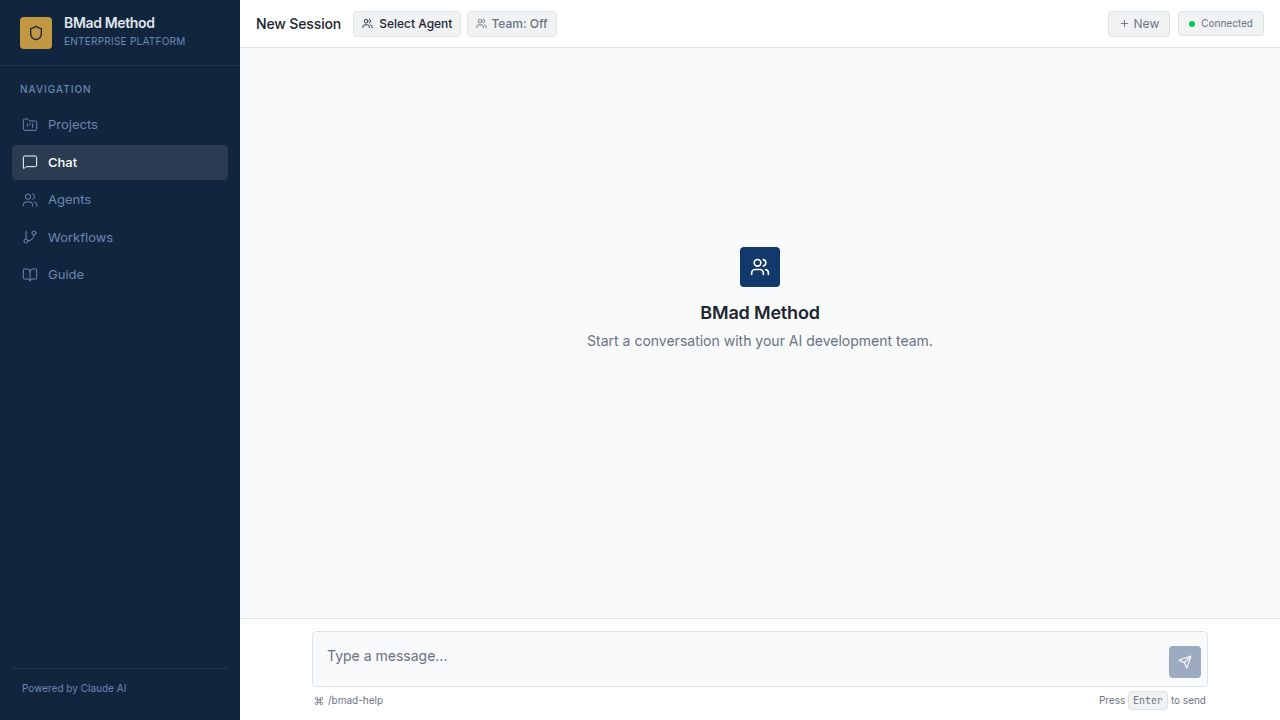
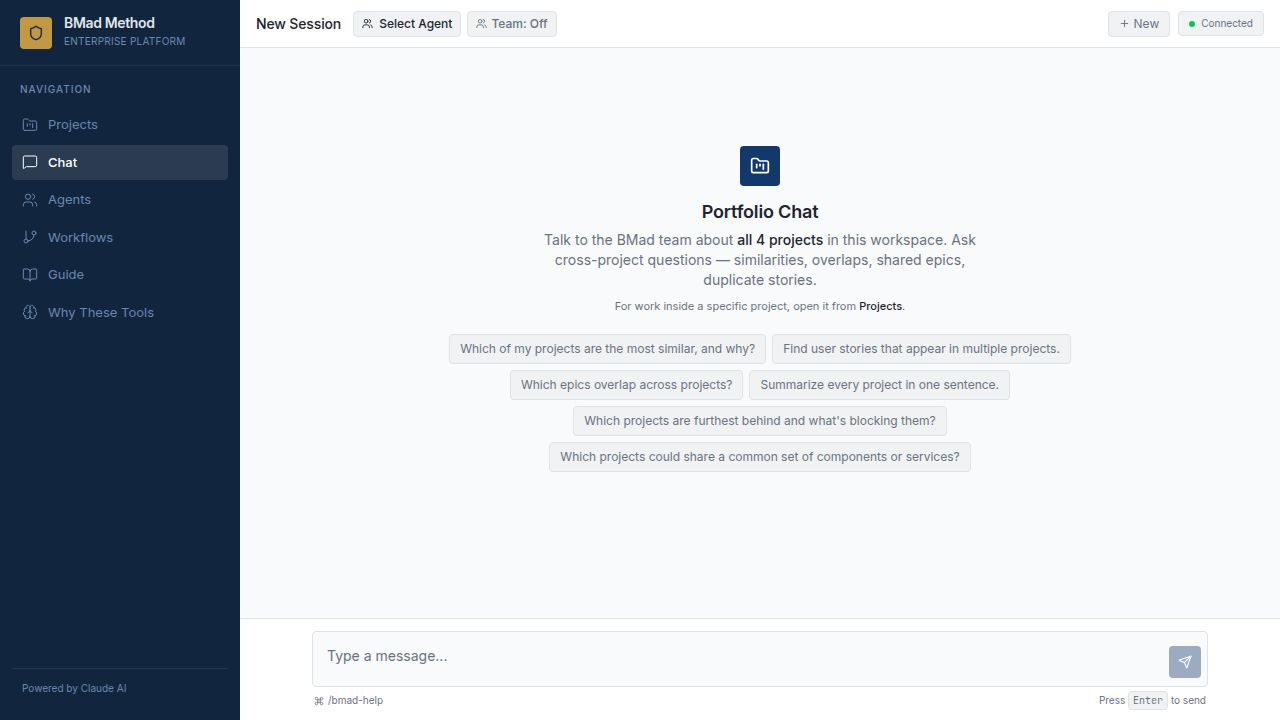
Add a page explaining AI development tools and their importance
Introduce a new page detailing AI development tools like BMAD, OpenSpec, and Task Master, along with their benefits in overcoming context rot.

Replit-Commit-Author: Agent
Replit-Commit-Session-Id: aa47a9ff-fc4f-4b63-81e4-2110f7934c49
Replit-Commit-Checkpoint-Type: full_checkpoint
Replit-Commit-Event-Id: 6519afbe-ac35-4e69-aeb8-97c24171ea48
Replit-Commit-Screenshot-Url: https://storage.googleapis.com/screenshot-production-us-central1/96b46cc5-f6db-49d0-b25d-7af8d2ef0f63/aa47a9ff-fc4f-4b63-81e4-2110f7934c49/jTIKhtq
Replit-Helium-Checkpoint-Created: true

diff --git a/client/src/pages/WhyTools.tsx b/client/src/pages/WhyTools.tsx
@@ -1,0 +1,293 @@
+import { Layout } from "@/components/layout/Layout";
+import {
+  AlertTriangle,
+  Brain,
+  GitBranch,
+  FileText,
+  ListChecks,
+  TrendingDown,
+  CheckCircle2,
+  XCircle,
+  ArrowRight,
+  Target,
+  Layers,
+  Zap,
+} from "lucide-react";
+
+const TOOLS = [
+  {
+    id: "bmad",
+    name: "BMad Method",
+    tagline: "Structured agile workflow with specialist AI agents",
+    icon: GitBranch,
+    accent: "bg-primary text-primary-foreground",
+    accentSoft: "bg-primary/10 text-primary border-primary/20",
+    description:
+      "BMad breaks software delivery into five disciplined phases — Analysis, Planning, Solutioning, Refinement, and Implementation — each driven by a specialist agent (Mary, John, Winston, Sally, Fred, Allie, Bob, DevAI, Quinn). Instead of one generalist AI guessing across all roles, BMad routes each decision to the right expert with the right system prompt and the right artifacts in context.",
+    solves: [
+      "Single-agent confusion when one AI tries to be PM, architect, and developer at once.",
+      "Lost institutional knowledge between sessions — agents work from durable documents, not stale chat history.",
+      "Skipped discovery — the workflow forces a Brief and PRD before any architecture or code is written.",
+      "Story-level chaos — the CE command produces parseable epics and INVEST-graded stories that flow straight into the board.",
+    ],
+    when: "When you want a senior team's process — discovery, planning, design, refinement, build — without hiring six people.",
+  },
+  {
+    id: "openspec",
+    name: "OpenSpec",
+    tagline: "Specifications as the source of truth, not chat",
+    icon: FileText,
+    accent: "bg-violet-700 text-white",
+    accentSoft: "bg-violet-500/10 text-violet-700 border-violet-500/20",
+    description:
+      "OpenSpec is a spec-driven development pattern where every change starts as a written specification — proposal, capability deltas, tasks, and design — that humans review before any code is generated. The spec is the contract; the AI implements against it. Specs are versioned, diff-able, and live next to the code they describe.",
+    solves: [
+      "Underspecified prompts that produce code the team didn't actually agree to.",
+      "Drift between intent and implementation — the spec stays in the repo as the durable source of truth.",
+      "Reviewer overload — humans review a tight spec, not 2,000 lines of generated code.",
+      "Knowledge transfer — new contributors (human or AI) onboard from specs, not from reading every commit.",
+    ],
+    when: "When changes are non-trivial, cross multiple files, or need architectural buy-in before code is written.",
+  },
+  {
+    id: "task-master",
+    name: "Task Master",
+    tagline: "Decompose work into ordered, dependency-aware tasks",
+    icon: ListChecks,
+    accent: "bg-emerald-700 text-white",
+    accentSoft: "bg-emerald-500/10 text-emerald-700 border-emerald-500/20",
+    description:
+      "Task Master takes a PRD or epic and produces a numbered task list with explicit dependencies, complexity scores, and acceptance criteria. Each task is small enough to fit a single AI session without overflowing the context window. An orchestrator picks the next unblocked task, hands the AI exactly what it needs, and marks it done when verified.",
+    solves: [
+      "Unbounded scope — the AI knows exactly which task it's on and what done looks like.",
+      "Hidden dependencies — work is sequenced so prerequisites land first.",
+      "Context exhaustion — each task is self-contained with only the files and notes it needs.",
+      "Stalled progress — completed tasks are tracked, blockers are surfaced, and the team always knows the next move.",
+    ],
+    when: "When a project has more than ~10 stories or any non-linear dependency graph.",
+  },
+];
+
+const ROT_SYMPTOMS = [
+  "Repeats decisions you made 20 messages ago",
+  "Reintroduces bugs you already fixed",
+  "Forgets file paths, table names, or constraints",
+  "Generates code that doesn't match the architecture",
+  "Asks for context it was already given",
+  "Produces shorter, vaguer answers as the session grows",
+];
+
+const ROT_MITIGATIONS = [
+  { tool: "BMad", how: "Specialist agents with focused system prompts; durable documents replace ephemeral chat." },
+  { tool: "OpenSpec", how: "The spec lives in the repo. Every new session starts fresh from the spec, not from chat scrollback." },
+  { tool: "Task Master", how: "Each task is its own scoped session with only the files and acceptance criteria it needs." },
+  { tool: "Portfolio Chat", how: "Cross-project state is injected as structured context, not recovered from chat memory." },
+];
+
+export default function WhyTools() {
+  return (
+    <Layout>
+      <div className="flex-1 overflow-y-auto bg-background">
+        <div className="max-w-4xl mx-auto px-6 py-8 space-y-10">
+          {/* Header */}
+          <div>
+            <div className="inline-flex items-center gap-2 px-2.5 py-1 rounded-full bg-primary/10 text-primary text-[10px] font-medium uppercase tracking-wider mb-3">
+              <Brain size={11} /> Why this stack exists
+            </div>
+            <h1 className="text-2xl font-semibold text-foreground tracking-tight" data-testid="text-why-title">
+              Overcoming the limits of AI-assisted development
+            </h1>
+            <p className="text-sm text-muted-foreground mt-2 max-w-2xl">
+              Large language models are powerful, but they have a structural weakness: their context window degrades over the life of a session.
+              The tools below — BMad, OpenSpec, and Task Master — each address a different facet of that problem so a team can ship reliable software with AI as a co-worker rather than a liability.
+            </p>
+          </div>
+
+          {/* Context Rot — The Core Problem */}
+          <section className="bg-card border border-border rounded-md overflow-hidden">
+            <div className="bg-destructive/5 border-b border-border px-5 py-3 flex items-center gap-2">
+              <AlertTriangle size={16} className="text-destructive" />
+              <h2 className="text-sm font-semibold text-foreground">The Core Problem: Context Rot</h2>
+            </div>
+            <div className="p-5 space-y-4">
+              <p className="text-sm text-foreground leading-relaxed">
+                <span className="font-semibold">Context rot</span> is the steady degradation of an AI assistant's reasoning quality as a conversation gets longer.
+                Even with a 200K-token window, the model's ability to weight, retrieve, and synthesize information across the conversation drops the further back it has to look.
+                Recent answers crowd out earlier decisions; instructions buried mid-session get diluted; and the model starts confidently doing the wrong thing.
+              </p>
+
+              <div className="grid md:grid-cols-2 gap-4">
+                <div>
+                  <div className="text-[10px] font-medium uppercase tracking-wider text-muted-foreground mb-2 flex items-center gap-1">
+                    <TrendingDown size={11} /> Symptoms you've seen
+                  </div>
+                  <ul className="space-y-1.5">
+                    {ROT_SYMPTOMS.map((s) => (
+                      <li key={s} className="text-xs text-foreground flex items-start gap-2">
+                        <XCircle size={11} className="text-destructive mt-0.5 shrink-0" />
+                        <span>{s}</span>
+                      </li>
+                    ))}
+                  </ul>
+                </div>
+                <div>
+                  <div className="text-[10px] font-medium uppercase tracking-wider text-muted-foreground mb-2 flex items-center gap-1">
+                    <Target size={11} /> Why it happens
+                  </div>
+                  <ul className="space-y-1.5 text-xs text-foreground">
+                    <li className="flex items-start gap-2">
+                      <span className="w-1 h-1 rounded-full bg-muted-foreground mt-1.5 shrink-0" />
+                      <span>Attention is not uniform across the window — middle-of-context information is recalled less reliably than the very start or end.</span>
+                    </li>
+                    <li className="flex items-start gap-2">
+                      <span className="w-1 h-1 rounded-full bg-muted-foreground mt-1.5 shrink-0" />
+                      <span>Long sessions accumulate noise: false starts, abandoned ideas, intermediate code that contradicts the final design.</span>
+                    </li>
+                    <li className="flex items-start gap-2">
+                      <span className="w-1 h-1 rounded-full bg-muted-foreground mt-1.5 shrink-0" />
+                      <span>The model has no durable memory between sessions, so every restart loses everything that wasn't written down.</span>
+                    </li>
+                  </ul>
+                </div>
+              </div>
+
+              <div className="bg-muted/40 border border-border rounded p-3 mt-2">
+                <p className="text-xs text-foreground leading-relaxed">
+                  <span className="font-semibold">The fix is not "a bigger model."</span> The fix is <span className="font-medium">to keep the working set small, structured, and externalized to durable artifacts</span> — exactly what the three tools below were designed to do.
+                </p>
+              </div>
+            </div>
+          </section>
+
+          {/* The Three Tools */}
+          <section className="space-y-5">
+            <div>
+              <h2 className="text-base font-semibold text-foreground" data-testid="text-tools-section-title">
+                Three tools, three layers of the fix
+              </h2>
+              <p className="text-xs text-muted-foreground mt-1">
+                Each tool takes a different cut at context rot. Together they keep the AI focused, accountable, and reproducible across sessions.
+              </p>
+            </div>
+
+            <div className="space-y-4">
+              {TOOLS.map((tool) => {
+                const Icon = tool.icon;
+                return (
+                  <div
+                    key={tool.id}
+                    data-testid={`card-tool-${tool.id}`}
+                    className="bg-card border border-border rounded-md overflow-hidden"
+                  >
+                    <div className="px-5 py-4 border-b border-border flex items-start gap-4">
+                      <div className={`w-10 h-10 rounded ${tool.accent} flex items-center justify-center shrink-0`}>
+                        <Icon size={18} />
+                      </div>
+                      <div className="min-w-0 flex-1">
+                        <h3 className="text-base font-semibold text-foreground">{tool.name}</h3>
+                        <p className="text-xs text-muted-foreground mt-0.5">{tool.tagline}</p>
+                      </div>
+                    </div>
+
+                    <div className="p-5 space-y-4">
+                      <p className="text-sm text-foreground leading-relaxed">{tool.description}</p>
+
+                      <div>
+                        <div className="text-[10px] font-medium uppercase tracking-wider text-muted-foreground mb-2">
+                          What it solves
+                        </div>
+                        <ul className="space-y-1.5">
+                          {tool.solves.map((s, i) => (
+                            <li key={i} className="text-xs text-foreground flex items-start gap-2">
+                              <CheckCircle2 size={11} className="text-primary mt-0.5 shrink-0" />
+                              <span>{s}</span>
+                            </li>
+                          ))}
+                        </ul>
+                      </div>
+
+                      <div className={`text-xs px-3 py-2 rounded border ${tool.accentSoft} flex items-start gap-2`}>
+                        <Zap size={11} className="mt-0.5 shrink-0" />
+                        <span>
+                          <span className="font-medium">Reach for it: </span>
+                          {tool.when}
+                        </span>
+                      </div>
+                    </div>
+                  </div>
+                );
+              })}
+            </div>
+          </section>
+
+          {/* How They Combine */}
+          <section className="bg-card border border-border rounded-md overflow-hidden">
+            <div className="bg-primary/5 border-b border-border px-5 py-3 flex items-center gap-2">
+              <Layers size={16} className="text-primary" />
+              <h2 className="text-sm font-semibold text-foreground">How they combine to defeat context rot</h2>
+            </div>
+            <div className="p-5 space-y-4">
+              <p className="text-sm text-foreground leading-relaxed">
+                None of these tools is sufficient on its own. The compounding value comes from layering them so every conversation has the right amount of context — never too little, never too much.
+              </p>
+
+              <div className="overflow-hidden border border-border rounded">
+                <table className="w-full text-xs">
+                  <thead className="bg-muted/40 text-muted-foreground">
+                    <tr>
+                      <th className="text-left px-3 py-2 font-medium uppercase tracking-wider text-[10px] w-1/4">Tool</th>
+                      <th className="text-left px-3 py-2 font-medium uppercase tracking-wider text-[10px]">How it fights context rot</th>
+                    </tr>
+                  </thead>
+                  <tbody className="divide-y divide-border">
+                    {ROT_MITIGATIONS.map((m) => (
+                      <tr key={m.tool} className="bg-card" data-testid={`row-mitigation-${m.tool.toLowerCase().replace(/\s+/g, "-")}`}>
+                        <td className="px-3 py-2.5 font-medium text-foreground align-top">{m.tool}</td>
+                        <td className="px-3 py-2.5 text-foreground">{m.how}</td>
+                      </tr>
+                    ))}
+                  </tbody>
+                </table>
+              </div>
+
+              <div className="grid md:grid-cols-3 gap-3 pt-2">
+                <FlowStep n="1" label="Specify" body="OpenSpec captures intent as a reviewable artifact before any AI writes code." />
+                <FlowStep n="2" label="Plan" body="BMad's Refinement phase turns the spec into INVEST-graded stories with dependencies." />
+                <FlowStep n="3" label="Execute" body="Task Master hands the AI one focused task at a time with only the context it needs." />
+              </div>
+            </div>
+          </section>
+
+          {/* Closing call to action */}
+          <section className="border border-border bg-card rounded-md p-5 flex items-start gap-4">
+            <div className="w-9 h-9 rounded bg-primary/10 flex items-center justify-center shrink-0">
+              <Brain size={16} className="text-primary" />
+            </div>
+            <div className="flex-1">
+              <h3 className="text-sm font-semibold text-foreground">The bottom line</h3>
+              <p className="text-xs text-muted-foreground mt-1 leading-relaxed">
+                Treat the AI like a strong but forgetful new hire. Give it a tight spec (OpenSpec), a defined process (BMad), and one well-bounded task at a time (Task Master).
+                The model's raw capability stops being the limit; your team's discipline does.
+              </p>
+            </div>
+          </section>
+        </div>
+      </div>
+    </Layout>
+  );
+}
+
+function FlowStep({ n, label, body }: { n: string; label: string; body: string }) {
+  return (
+    <div className="border border-border rounded p-3 bg-card">
+      <div className="flex items-center gap-2 mb-1.5">
+        <div className="w-5 h-5 rounded bg-primary text-primary-foreground text-[10px] font-semibold flex items-center justify-center">
+          {n}
+        </div>
+        <span className="text-xs font-semibold text-foreground">{label}</span>
+        <ArrowRight size={10} className="text-muted-foreground/40 ml-auto" />
+      </div>
+      <p className="text-[11px] text-muted-foreground leading-relaxed">{body}</p>
+    </div>
+  );
+}

diff --git a/client/src/App.tsx b/client/src/App.tsx
@@ -10,6 +10,7 @@ import Projects from "@/pages/Projects";
 import ProjectDetail from "@/pages/ProjectDetail";
 import Guide from "@/pages/Guide";
 import DevView from "@/pages/DevView";
+import WhyTools from "@/pages/WhyTools";
 import NotFound from "@/pages/not-found";
 
 function Router() {
@@ -22,6 +23,7 @@ function Router() {
       <Route path="/agents" component={Agents} />
       <Route path="/workflows" component={Workflows} />
       <Route path="/guide" component={Guide} />
+      <Route path="/why-tools" component={WhyTools} />
       <Route component={NotFound} />
     </Switch>
   );

diff --git a/client/src/components/layout/Sidebar.tsx b/client/src/components/layout/Sidebar.tsx
@@ -8,7 +8,8 @@ import {
   X,
   FolderKanban,
   BookOpen,
-  Shield
+  Shield,
+  Brain
 } from "lucide-react";
 import { cn } from "@/lib/utils";
 
@@ -18,6 +19,7 @@ const NAV_ITEMS = [
   { href: "/agents", label: "Agents", icon: Users },
   { href: "/workflows", label: "Workflows", icon: GitBranch },
   { href: "/guide", label: "Guide", icon: BookOpen },
+  { href: "/why-tools", label: "Why These Tools", icon: Brain },
 ];
 
 export function Sidebar() {
